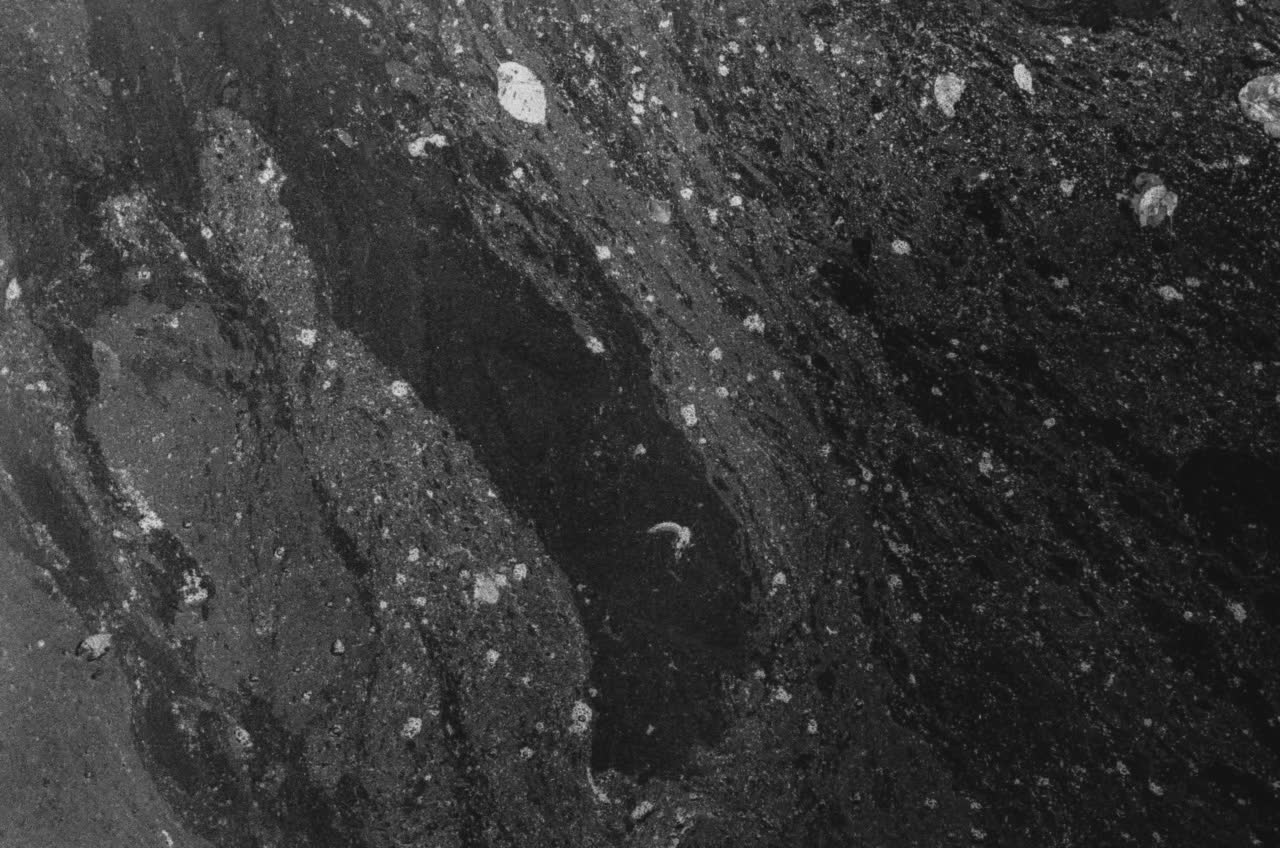
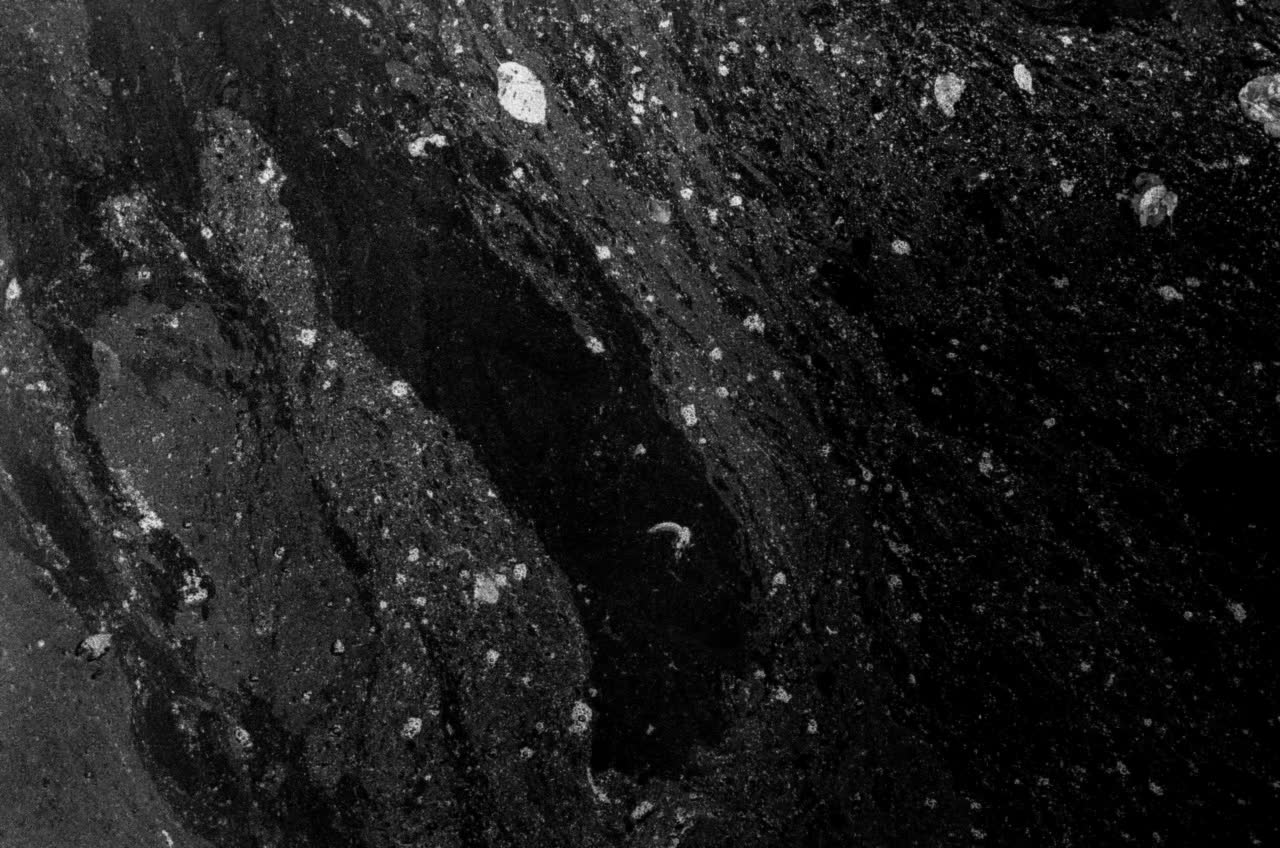
Balance the values section and give each value more room
The values sit as one centred piece in the water, with less head room
and enough foot room to match it; mission and vision take a little less
room too. The joined piece leaves more space round its words, the name
sits on one line, shorter than its larger sentence, and the callouts
stay within the page's columns. The stone photo gets deeper blacks.

Claude-Session: https://claude.ai/code/session_01RrubpGMCvAyfmezLBBwxA1

diff --git a/src/components/about-values.tsx b/src/components/about-values.tsx
@@ -12,7 +12,7 @@ import { AnimatePresence, motion, useReducedMotion } from "motion/react";
 import { SlideIn } from "./enter";
 import { useInkAlign } from "./ink-align";
 import { useSeen } from "./use-seen";
-import { useValuesWater, type ValuesControl } from "./values-water";
+import { PIECE_PAD, useValuesWater, type ValuesControl } from "./values-water";
 
 /* ==================================================================
    Values
@@ -219,7 +219,7 @@ export function AboutValues() {
         if (joined) part();
       }}
       data-joined={joined ? "" : undefined}
-      className="abt-val relative isolate flex flex-col overflow-hidden bg-paper pt-(--section-gap)"
+      className="abt-val relative isolate flex flex-col overflow-hidden bg-paper pt-[calc(var(--section-gap)*0.85)]"
     >
       <canvas
         ref={canvas}
@@ -227,7 +227,12 @@ export function AboutValues() {
         className="absolute inset-0 -z-10 block size-full"
       />
 
-      <div className="shell flex flex-col pb-10 md:pb-14">
+      {/* A little less room above than a section's usual head room, and
+          below as much as it takes for the space under the drops (whose
+          glass reaches past their buttons) to match the space over the
+          title, so the heading and the drops sit as one piece in the
+          middle of the water. */}
+      <div className="shell flex flex-col pb-[3.25rem] md:pb-[8rem]">
         {/* Side by side from md: the title on the left, the subtitle
             justified on the right, its first line level with the top of
             the title's (see ink-align.ts). */}
@@ -379,8 +384,16 @@ function Callout({
   // window does, so it is always drawn off the drop where it now is.
   useLayoutEffect(() => {
     const measure = () => {
-      const box = section.current?.getBoundingClientRect();
-      if (!box) return setLead(null);
+      const sec = section.current;
+      const box = sec?.getBoundingClientRect();
+      if (!sec || !box) return setLead(null);
+      // The callout keeps inside the page's columns, as everything else
+      // on the wall does: the shell's content edges, in section pixels.
+      const shell = sec.querySelector<HTMLElement>(".shell");
+      const pad = shell ? parseFloat(getComputedStyle(shell).paddingLeft) || 16 : 16;
+      const sb = shell?.getBoundingClientRect();
+      const minX = sb ? sb.left - box.left + pad : 16;
+      const maxX = sb ? sb.right - box.left - pad : box.width - 16;
       if (aim.kind === "drop") {
         const el = slots[aim.i];
         if (!el) return setLead(null);
@@ -388,13 +401,13 @@ function Callout({
         const cx = b.left - box.left + b.width / 2;
         const cy = b.top - box.top + b.height / 2;
         // Off the right of the drop, unless that would run off the screen.
-        const dir: 1 | -1 = cx + b.width * 0.4 + RISE + RUN > box.width - 16 ? -1 : 1;
+        const dir: 1 | -1 = cx + b.width * 0.4 + RISE + RUN > maxX ? -1 : 1;
         // From the drop's edge, up and outwards at forty-five degrees.
         const reach = b.width * 0.3;
         const ax = cx + dir * reach;
         const ay = cy - reach;
         const bx = ax + dir * RISE;
-        const room = dir === 1 ? box.width - 16 - bx : bx - 16;
+        const room = dir === 1 ? maxX - bx : bx - minX;
         setLead({ ax, ay, bx, by: ay - RISE, run: Math.min(RUN, room), dir });
       } else {
         const el = piece.current;
@@ -404,10 +417,10 @@ function Callout({
         // out with (see measure() in values-water.ts).
         const fs = parseFloat(getComputedStyle(el).fontSize) || 16;
         const b = {
-          left: r.left - 0.9 * fs,
-          right: r.right + 0.9 * fs,
-          top: r.top - 1.1 * fs,
-          width: r.width + 1.8 * fs,
+          left: r.left - PIECE_PAD.x * fs,
+          right: r.right + PIECE_PAD.x * fs,
+          top: r.top - PIECE_PAD.y * fs,
+          width: r.width + 2 * PIECE_PAD.x * fs,
         };
         const left = b.left - box.left;
         const right = b.right - box.left;
@@ -417,19 +430,19 @@ function Callout({
         let ax: number;
         let ay = b.top - box.top - 4;
         let dir: 1 | -1;
-        if (box.width - right >= need) {
+        if (maxX - right >= need) {
           dir = 1;
           ax = right + 4;
-        } else if (left >= need) {
+        } else if (left - minX >= need) {
           dir = -1;
           ax = left - 4;
         } else {
-          dir = right > box.width - left ? -1 : 1;
+          dir = right - minX > maxX - left ? -1 : 1;
           ax = dir === -1 ? right - b.width * 0.18 : left + b.width * 0.18;
           ay = b.top - box.top - 2;
         }
         const bx = ax + dir * RISE;
-        const room = dir === 1 ? box.width - 16 - bx : bx - 16;
+        const room = dir === 1 ? maxX - bx : bx - minX;
         setLead({ ax, ay, bx, by: ay - RISE, run: Math.min(RUN + 24, room), dir });
       }
     };

diff --git a/src/app/globals.css b/src/app/globals.css
@@ -1397,13 +1397,13 @@
 
   /* The value, set in white on the piece the four become. Its size is
      what the piece is laid out to (see values-water.ts). */
-  /* The name on the left and the sentence beside it on the right,
-     justified, the two set level by the tops of their capitals (the
-     user's layout). On a phone there is no width for two columns, so the
-     sentence goes under the name. */
+  /* The name on the left, on one line and shorter than the sentence
+     beside it on the right, which is justified; the two set level by the
+     tops of their capitals (the user's layout). On a phone there is no
+     width for two columns, so the sentence goes under the name. */
   .abt-val-drop {
     font-size: clamp(1.25rem, 1.8vw, 1.625rem);
-    width: min(100% - 4.5rem, 30em);
+    width: min(100% - 6rem, 34em);
     padding: 0.4em 0.6em;
     display: grid;
     grid-template-columns: minmax(0, 1fr);
@@ -1421,21 +1421,20 @@
   }
   .abt-val-drop[data-joined] { pointer-events: auto; }
   .abt-val-name {
-    max-width: 5.5em;
-    font-size: clamp(2rem, 3vw, 3rem);
+    font-size: clamp(1.375rem, 1.9vw, 1.875rem);
     font-weight: 500;
     line-height: 1;
-    letter-spacing: -0.03em;
+    letter-spacing: -0.025em;
     color: var(--color-paper);
-    text-wrap: balance;
+    white-space: nowrap;
     text-box: trim-start cap alphabetic;
   }
   .abt-val-text {
     font-family: var(--font-read);
-    font-size: clamp(1.0625rem, 1.35vw, 1.375rem);
+    font-size: clamp(1.125rem, 1.5vw, 1.5rem);
     font-weight: 400;
-    line-height: 1.45;
-    letter-spacing: -0.006em;
+    line-height: 1.4;
+    letter-spacing: -0.008em;
     color: rgb(255 255 255 / 0.85);
     text-align: justify;
     text-box: trim-start cap alphabetic;

diff --git a/src/components/values-water.ts b/src/components/values-water.ts
@@ -92,6 +92,10 @@ const STILL_T = 24;
 /** How long the four take to come together, in seconds, and how long
     the words then take to come in on the joined piece. */
 const JOIN_S = 1.25;
+/** The room the joined piece leaves round the value's words, in the
+    words' own ems, across and up and down (the user asked for more). The
+    page's callout reads it too, to start at the piece's edge. */
+export const PIECE_PAD = { x: 1.5, y: 1.6 };
 const WORDS_IN_S = 0.38;
 /** The joined piece: how much its outline still wanders and how much of
     its highlight it keeps, as shares of the loose drops'. */
@@ -478,10 +482,10 @@ export function useValuesWater(
         // A margin round the words, so the joined piece's wandering
         // outline never comes in over them.
         const fs = parseFloat(getComputedStyle(m).fontSize) || 16;
-        const left = b.left - o.left - 0.9 * fs;
-        const top = b.top - o.top - 1.1 * fs;
-        const bw = b.width + 1.8 * fs;
-        const bh = b.height + 2.2 * fs;
+        const left = b.left - o.left - PIECE_PAD.x * fs;
+        const top = b.top - o.top - PIECE_PAD.y * fs;
+        const bw = b.width + 2 * PIECE_PAD.x * fs;
+        const bh = b.height + 2 * PIECE_PAD.y * fs;
         if (bw > 0 && bh > 0) meet = meetFor(left + bw / 2, top + bh / 2, bw, bh);
       }
       c.remeasure = false;

diff --git a/src/components/about-mission.tsx b/src/components/about-mission.tsx
@@ -42,10 +42,10 @@ export function AboutMission() {
     <section
       id="mission"
       aria-labelledby="mission-title"
-      // Its own foot room too: the values below are a full screen of water
-      // from their very top edge, and with no room here the vision ran
-      // straight into it.
-      className="relative bg-paper py-(--section-gap)"
+      // Its own foot room too: the values below are water from their very
+      // top edge, and with no room here the vision ran straight into it.
+      // Both a shade under a section's usual room (the user's ask).
+      className="relative bg-paper py-[calc(var(--section-gap)*0.85)]"
     >
       <div className="shell">
         <h2 id="mission-title" className="sr-only">

diff --git a/docs/about-decisions.md b/docs/about-decisions.md
@@ -27,6 +27,8 @@ The page is `noindex` (`robots: { index: false, follow: true }` in `src/app/abou
 
 - Smoothness (user: "não está nada suave"): the softening (contrast 0.82, slight blur) is now baked into the JPGs instead of a CSS filter, so the crossfade is opacity only (`will-change`, 1.6s); the statement's text-shadow is only applied once lit, not under the light's sweep.
 
+- The stone photo has a little more contrast and deeper blacks (rebaked: contrast 1.02, brightness −0.035, gamma 0.88, same blur); the swirl is unchanged.
+
 ## 2a. Mission and vision (`about-mission.tsx`)
 
 - White, gallery hang: mission high left (8 cols), vision lower right (cols 6-12), each with a black-marker mono label, a tense label on the right and a hairline drawn in. Lit grey to black, ragged (`.abt-ragged`).
@@ -50,6 +52,8 @@ The page is `noindex` (`robots: { index: false, follow: true }` in `src/app/abou
 - The cue is now a **callout** (user's idea, from films where a camera picks out a person): a dot in a ring on the drop's edge, a leader slanting up and out at 45° then running level, and "Click here" ("Tap here" on touch) typed out along the level run as if underlined by it. It hops from drop to drop with a small water ring until the first choice, takes the hovered drop, and once joined points at the piece: "Click to close". It picks the side with room and shortens its run to fit. The drops no longer swell on the call (`BECKON_SWELL` 0); the black tag is gone.
 - Callouts never stop while the drops are apart (user: "constante e em loop"); each call's callout lives through the next call (`CALL_LIFE_S` = 2 calls − 0.45s, on the water's clock via `onBeckon`/`onBeckonEnd`), so two are up at once and the oldest leaves before a third appears. Calling pauses while joined and resumes after.
 - The value inside the joined piece: **name on the left, sentence on the right, justified, both cap-trimmed so their tops are level** (this, not the section header, was what the user meant by H1/H2). Stacked below 640px. The joined piece's interior is kept free of rim, highlight and water sheen (`u_join`) so nothing glints behind the words.
+- Padding pass (user): values head room 0.85× the section gap; foot room grown until the space under the drops' glass matches the space over the title (md:pb-[8rem]), so heading and drops read as one centred piece. Mission/vision top and bottom room also 0.85×.
+- Inside the joined piece: the name is smaller and on one line (nowrap, up to 1.875rem), the sentence bigger (up to 1.5rem) and wider (piece up to 34em), so the name is always shorter than the text box; the piece leaves more room round the words (`PIECE_PAD` 1.5em × 1.6em, shared with the callout). Callouts stay inside the shell's content edges.
 - The section is no longer a full screen: its height is the heading plus the drops' row with callout room (~700px at 1440x900).
 
 ## CTAs, site-wide
